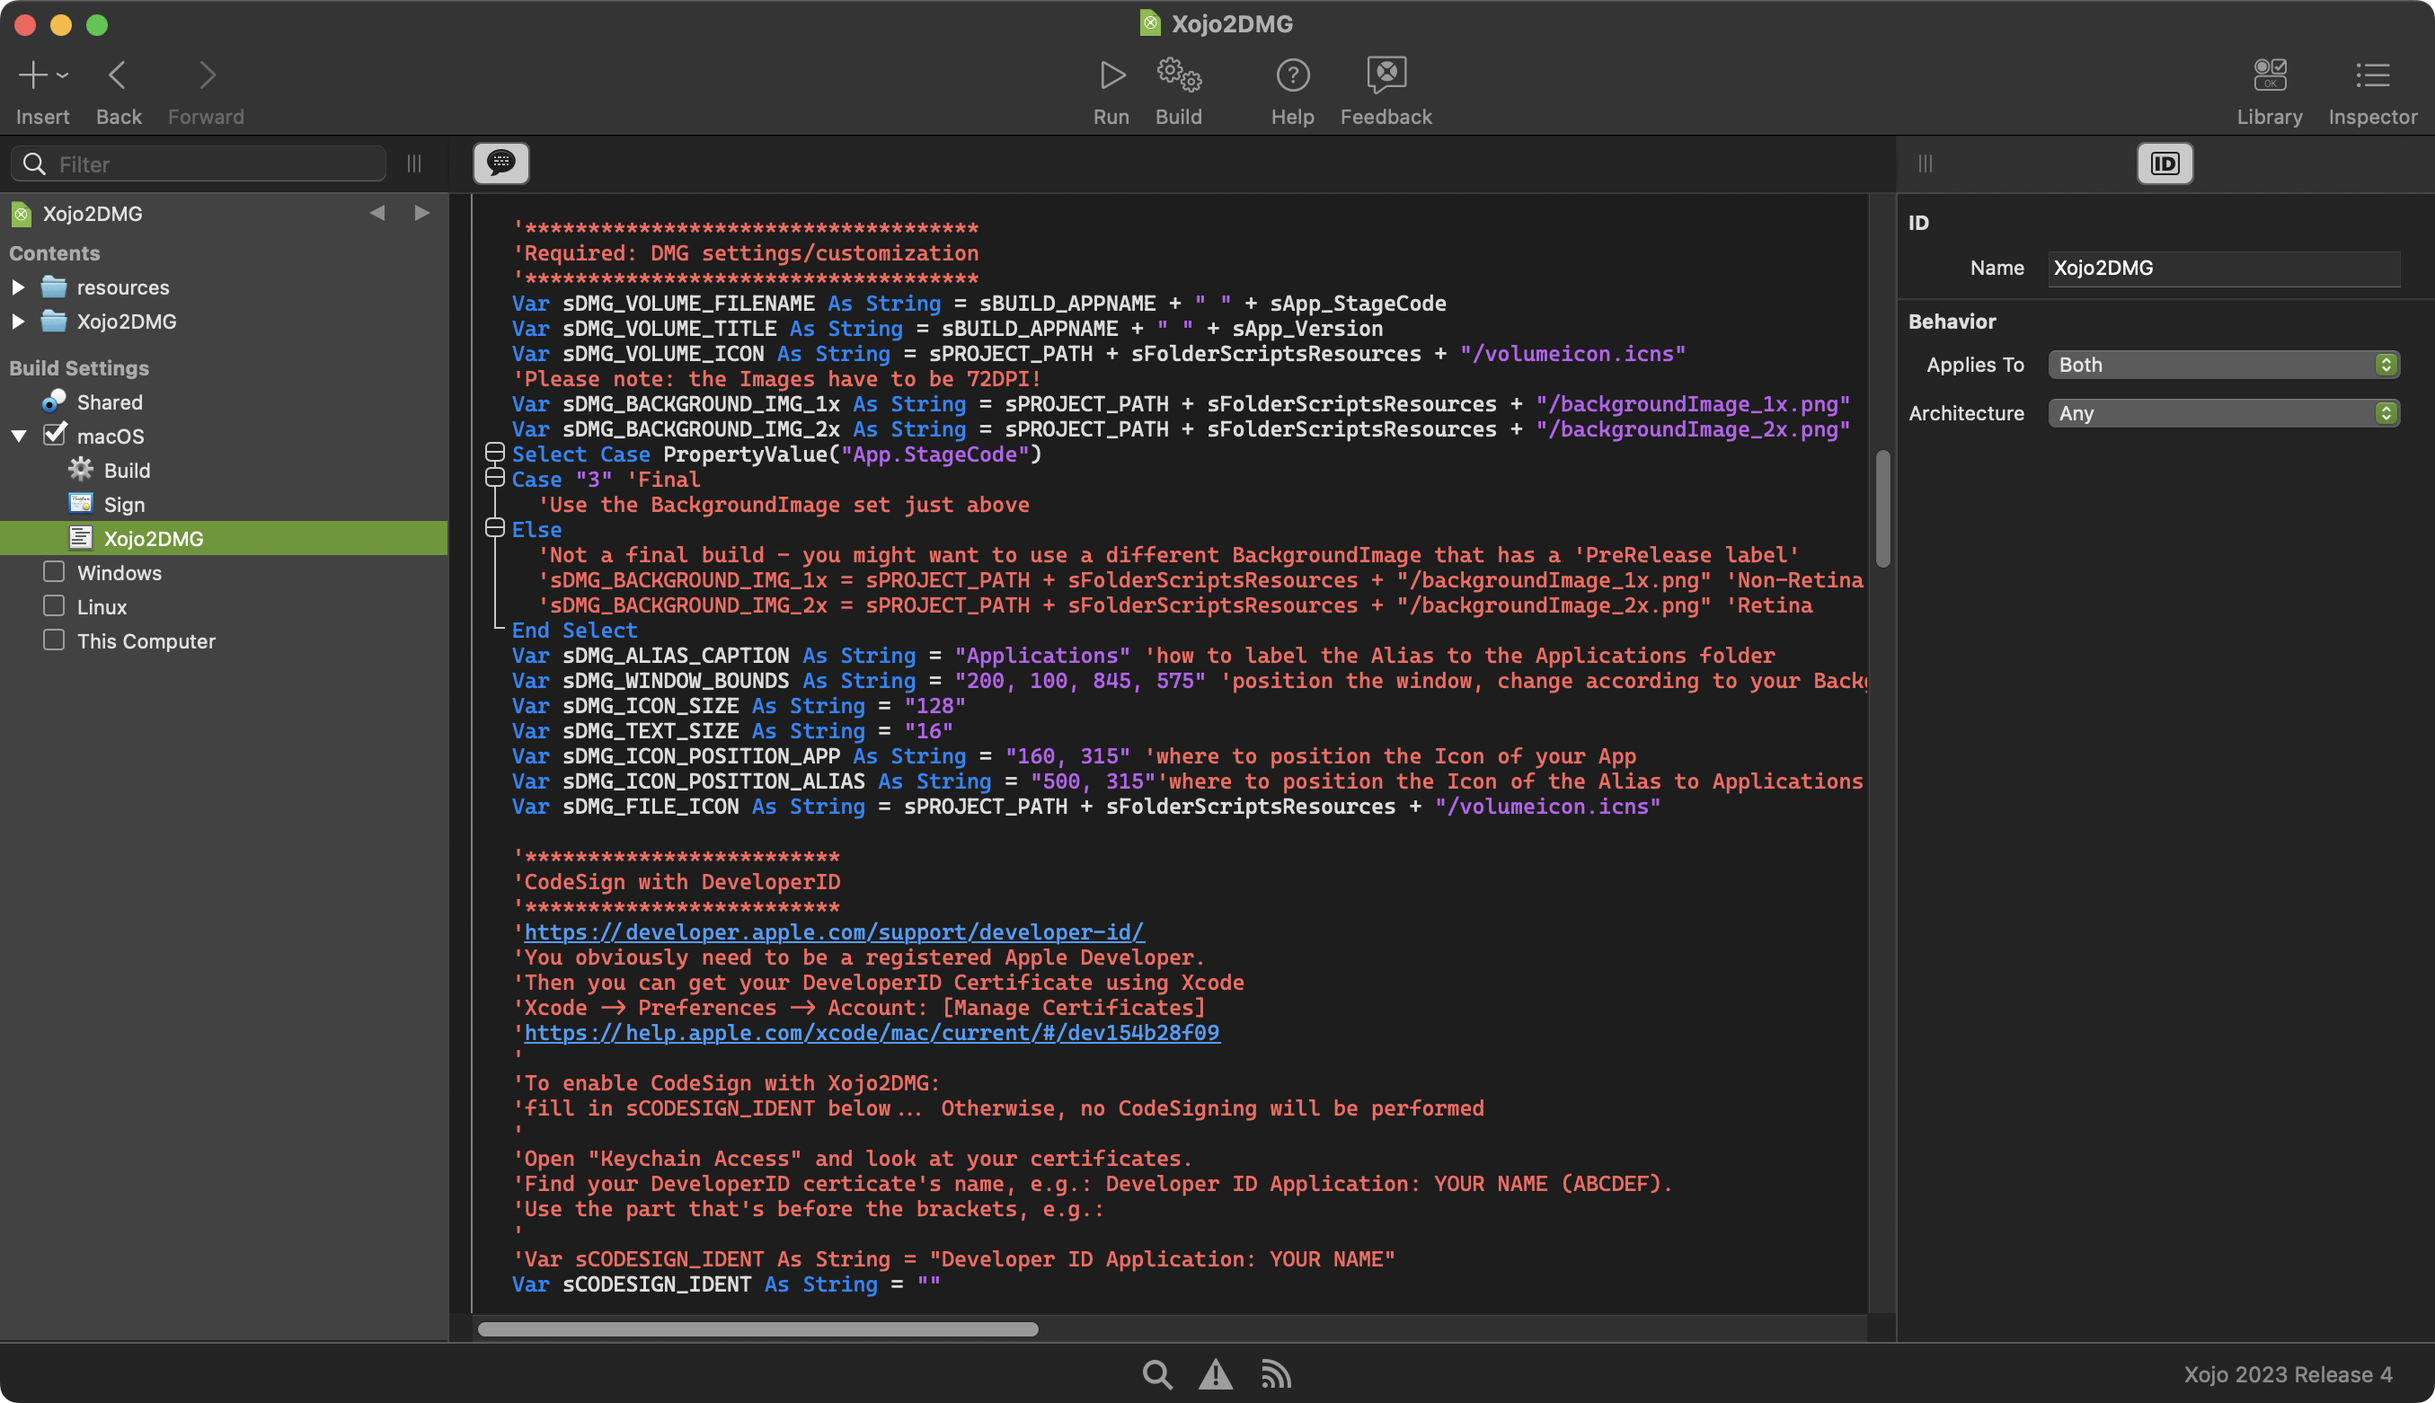
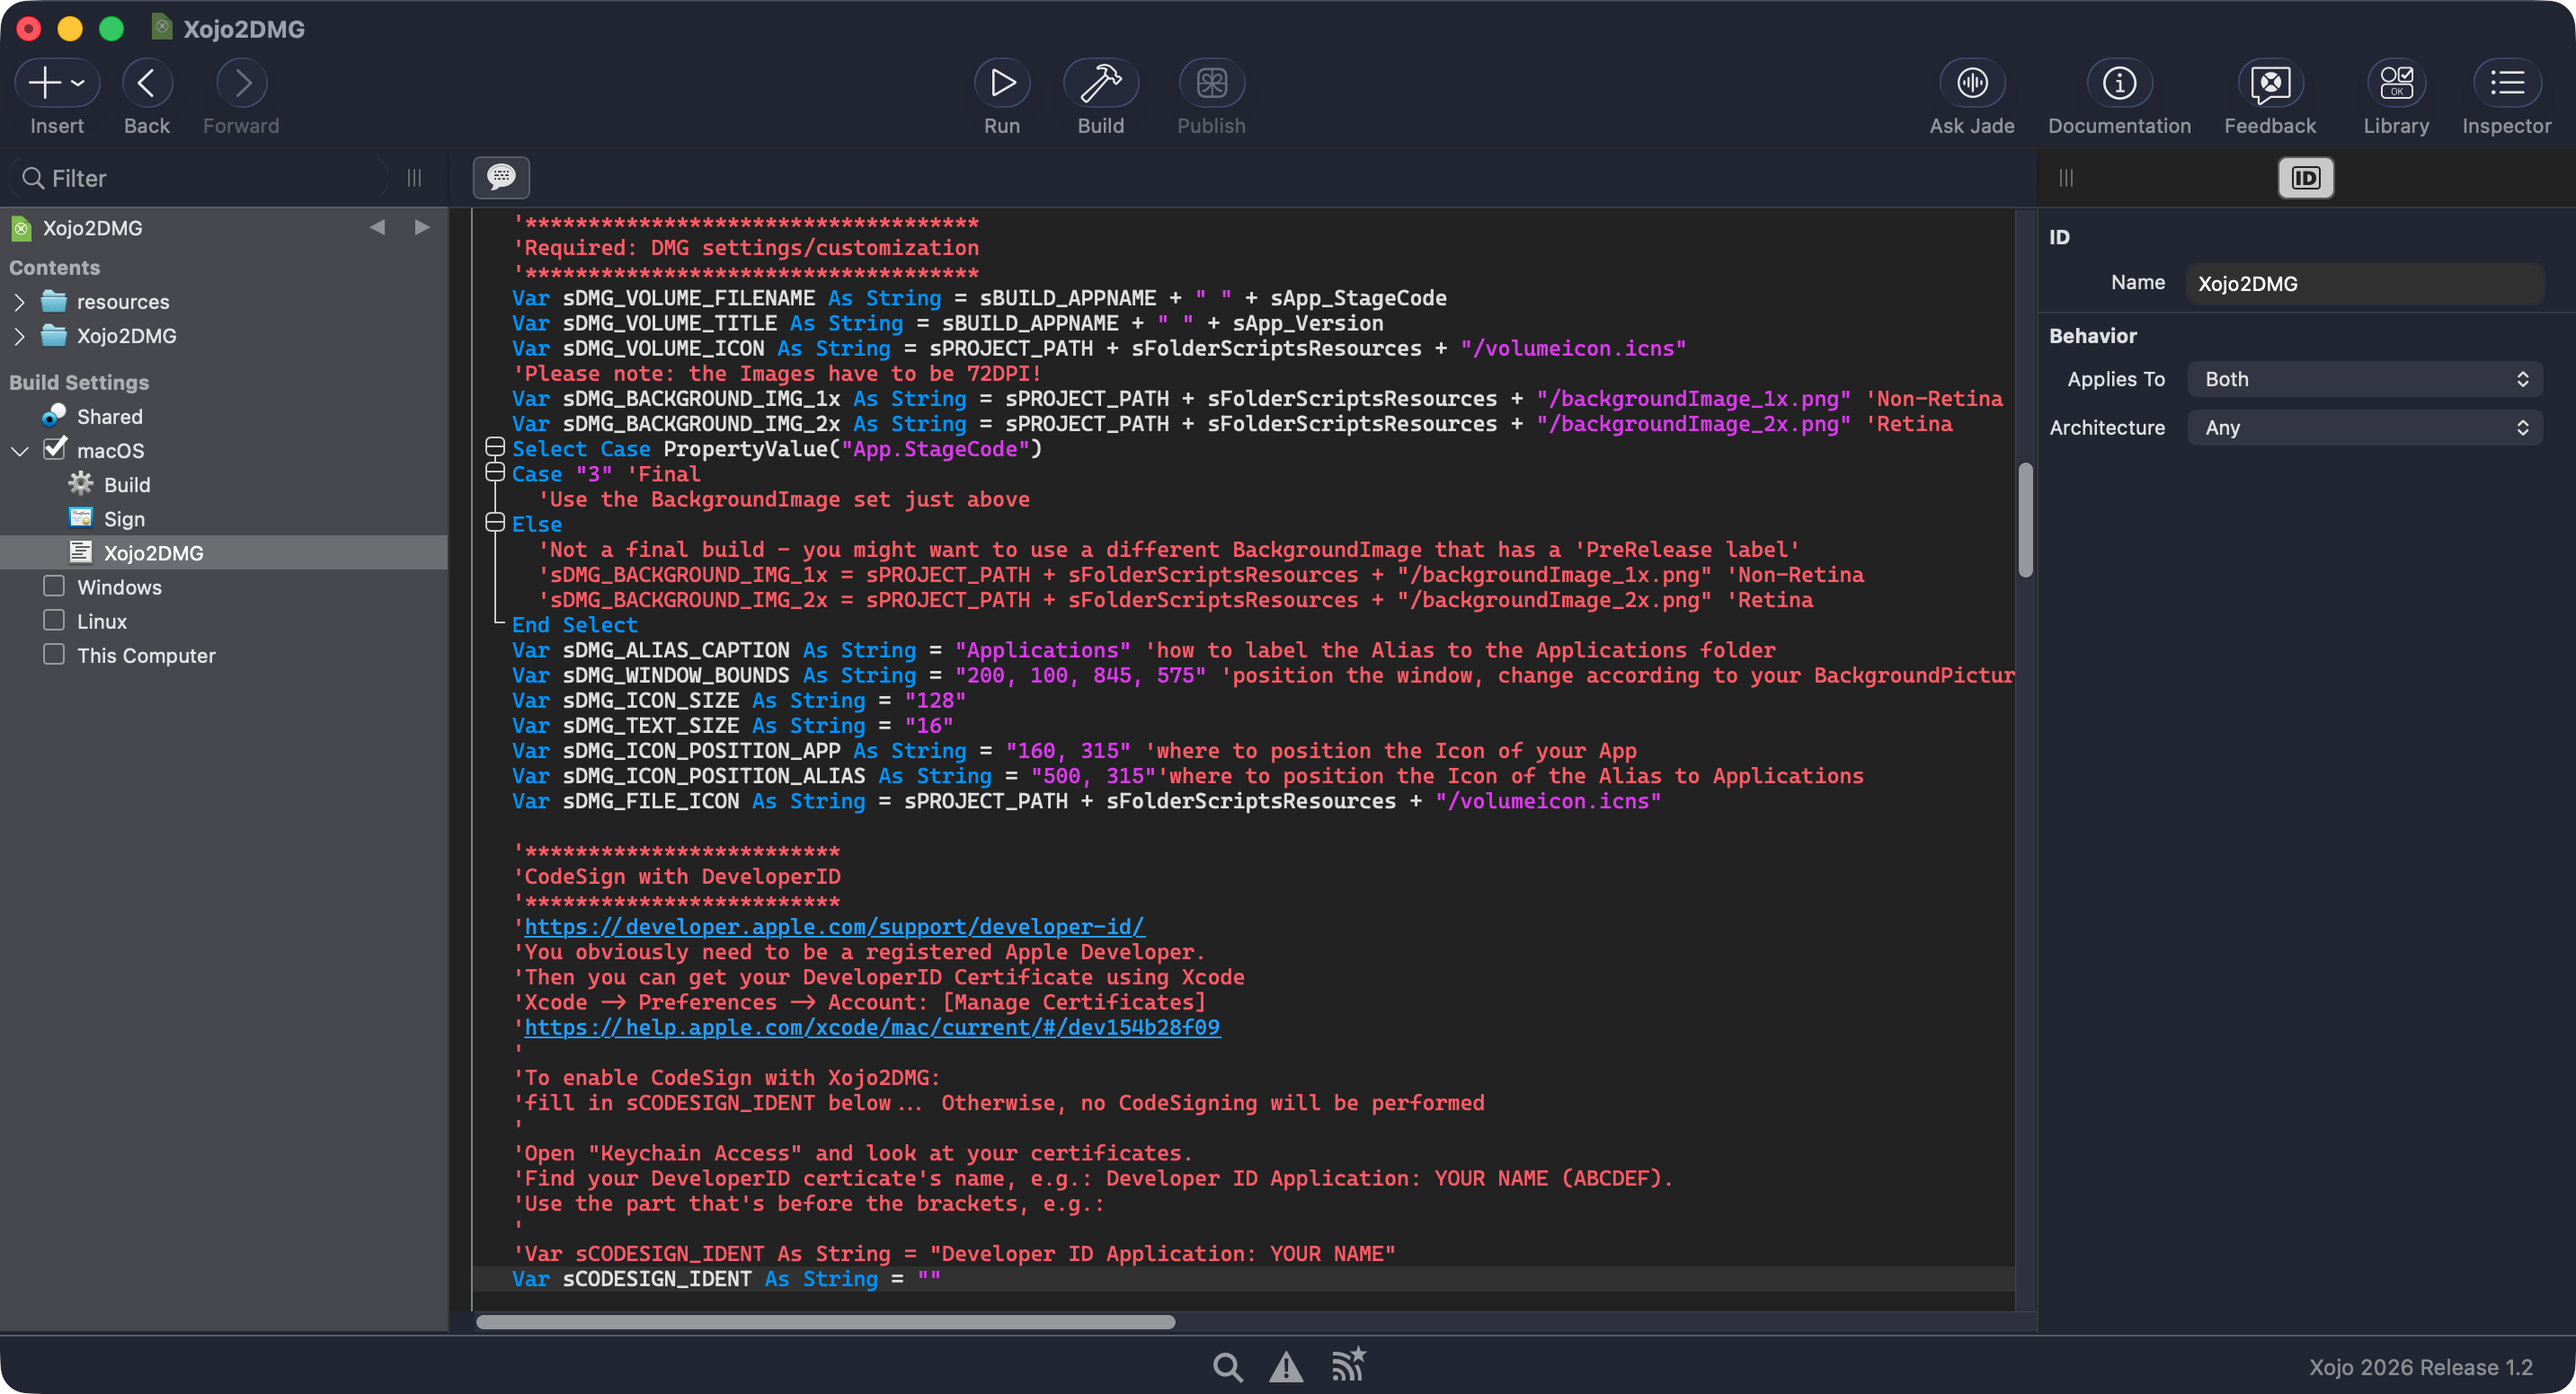
Update ReadMe

diff --git a/README.md b/README.md
@@ -21,7 +21,7 @@ You can easily customize the DiskImage's appearance by setting a couple of Varia
 
 
 ### ScreenShots
-[This DMG](example-build/Xojo2DMG.dmg) has been created with Xojo2DMG *(built with Xojo 2023r4, macOS 14.4, Xcode 15.3 for CodeSigning/Notarization)*. It contains the built example app *(built as macOS Universal: x86_64 & ARM64)*.
+[This DMG](example-build/Xojo2DMG.dmg) has been created with Xojo2DMG *(built with Xojo 2026r1.2, macOS 26.5, Xcode 26.5 for CodeSigning/Notarization)*. It contains the built example app *(built as macOS Universal: x86_64 & ARM64)*.
 ![ScreenShot: Disk Image](screenshots/xojo2dmg_screenshot_1.png?raw=true)
 
 Xojo IDE with the Post Build Script:  
@@ -32,7 +32,7 @@ Xojo IDE with the Post Build Script:
 [Xojo](https://www.xojo.com/) is a rapid application development for Desktop, Web, Mobile & Raspberry Pi.  
 
 The Desktop application Xojo example project ```Xojo2DMG.xojo_project``` and its Post Build Script is using:
-- Xojo 2024r4.2
+- Xojo 2026r1.2
 - API 2
 
 ### How to use in your own Xojo project?
